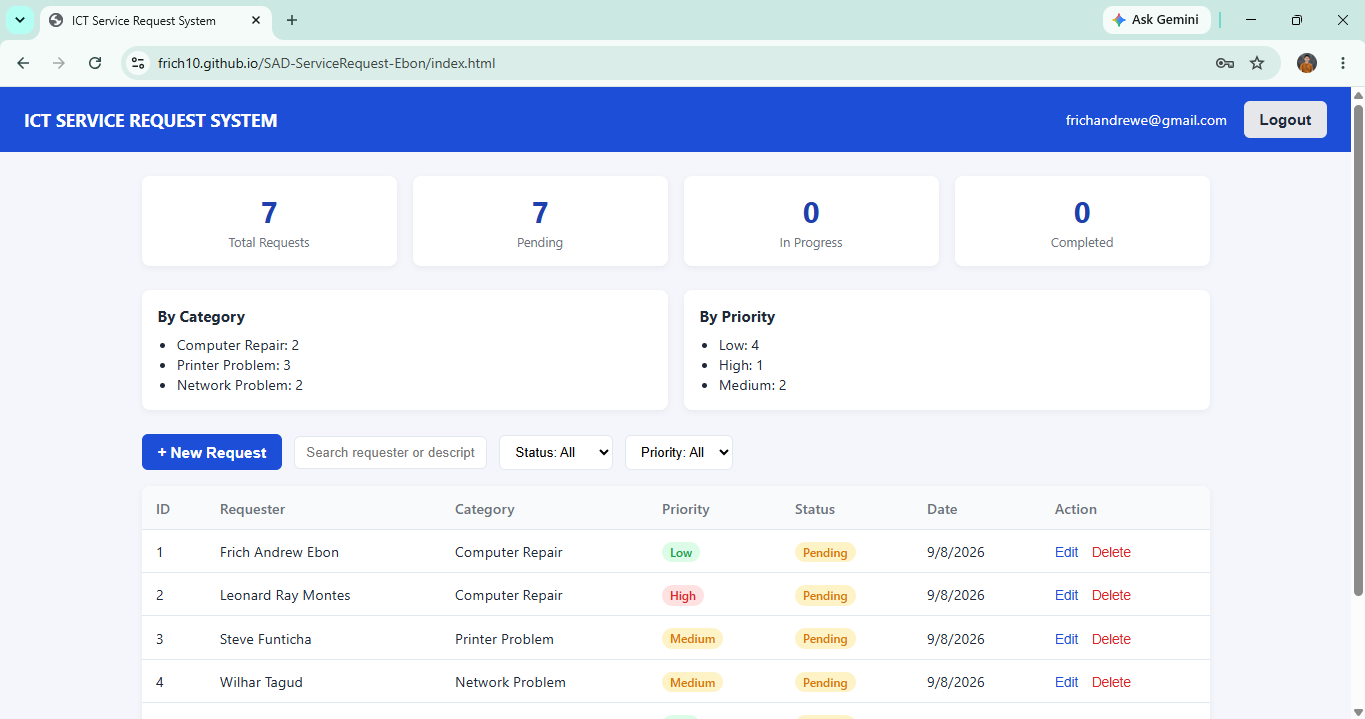
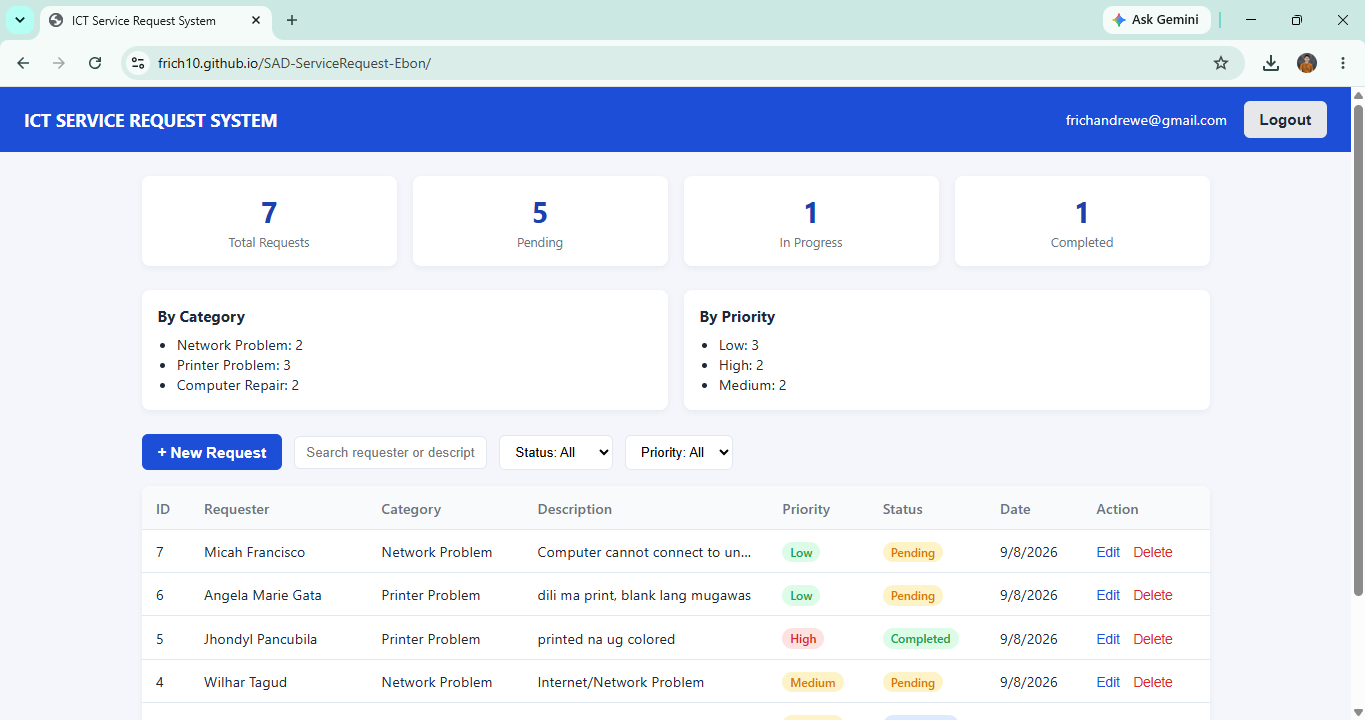
System and Complete Documentation

diff --git a/js/app.js b/js/app.js
@@ -1,15 +1,30 @@
-let currentUser = null;
-let allRequests = [];
+// js/app.js
+// -----------------------------------------------------------------------
+// Core application logic for index.html:
+//   - Dashboard summary counts
+//   - CRUD: Create, Read, Update, Delete service requests
+//   - Search (requester name / description)
+//   - Filter (status, priority)
+//   - Business rule validation (BR-01 to BR-06, BR-09)
+//   - Optional: Request Analytics (bonus)
+// -----------------------------------------------------------------------
 
+let currentUser = null;
+let allRequests = []; // cached copy of the last full fetch, used for client-side search/filter
+
+// ---------------------------------------------------------------------
+// INITIALIZATION
+// ---------------------------------------------------------------------
 (async function init() {
   const session = await requireSession();
-  if (!session) return; 
+  if (!session) return; // requireSession() already redirected to login.html
 
   currentUser = session.user;
   document.getElementById("user-email").textContent = currentUser.email;
 
   await loadRequests();
 
+  // Wire up static UI events
   document.getElementById("new-request-btn").addEventListener("click", openCreateModal);
   document.getElementById("request-form").addEventListener("submit", handleFormSubmit);
   document.getElementById("cancel-btn").addEventListener("click", closeModal);
@@ -20,11 +35,14 @@ let allRequests = [];
   document.getElementById("confirm-delete-no").addEventListener("click", closeDeleteModal);
 })();
 
+// ---------------------------------------------------------------------
+// READ: fetch all requests, render table + dashboard + analytics
+// ---------------------------------------------------------------------
 async function loadRequests() {
   const { data, error } = await supabaseClient
     .from("service_requests")
     .select("*")
-    .order("created_at", { ascending: false });
+    .order("id", { ascending: true });
 
   if (error) {
     alert("Error loading requests: " + error.message);
@@ -34,7 +52,7 @@ async function loadRequests() {
   allRequests = data || [];
   renderDashboard(allRequests);
   renderAnalytics(allRequests);
-  applyFilters(); 
+  applyFilters(); // renders the table using current search/filter state
 }
 
 function renderDashboard(requests) {
@@ -49,6 +67,7 @@ function renderDashboard(requests) {
   document.getElementById("stat-completed").textContent = completed;
 }
 
+// Bonus: Request Analytics by category and priority (values from DB, not hard-coded)
 function renderAnalytics(requests) {
   const byCategory = {};
   const byPriority = {};
@@ -76,6 +95,9 @@ function renderAnalytics(requests) {
   });
 }
 
+// ---------------------------------------------------------------------
+// SEARCH + FILTER (client-side, operates on the cached allRequests array)
+// ---------------------------------------------------------------------
 function applyFilters() {
   const searchTerm = document.getElementById("search-input").value.trim().toLowerCase();
   const statusFilter = document.getElementById("status-filter").value;
@@ -128,6 +150,7 @@ function renderTable(requests) {
     tbody.appendChild(tr);
   });
 
+  // Wire up row action buttons
   tbody.querySelectorAll(".edit-btn").forEach(btn =>
     btn.addEventListener("click", () => openEditModal(btn.dataset.id))
   );
@@ -147,6 +170,9 @@ function truncate(str, maxLen) {
   return str.length > maxLen ? str.slice(0, maxLen) + "…" : str;
 }
 
+// ---------------------------------------------------------------------
+// CREATE / UPDATE MODAL
+// ---------------------------------------------------------------------
 function openCreateModal() {
   document.getElementById("modal-title").textContent = "New Service Request";
   document.getElementById("request-id").value = "";
@@ -156,6 +182,7 @@ function openCreateModal() {
   document.getElementById("description").value = "";
   document.getElementById("priority").value = "Low";
 
+  // Status field only shown/editable when editing an existing request (BR-06)
   document.getElementById("status-field-group").style.display = "none";
 
   document.getElementById("form-error").textContent = "";
@@ -185,6 +212,7 @@ function closeModal() {
   document.getElementById("request-modal").classList.add("hidden");
 }
 
+// Validate against the business rules (BR-01 to BR-05)
 function validateForm(values) {
   if (!values.requester_name) return "Requester name cannot be empty. (BR-01)";
   if (!values.department) return "Department must be provided. (BR-02)";
@@ -215,7 +243,7 @@ async function handleFormSubmit(e) {
   }
 
   if (id) {
-
+    // ---- UPDATE ----
     values.status = document.getElementById("status").value;
     const { error } = await supabaseClient
       .from("service_requests")
@@ -227,7 +255,7 @@ async function handleFormSubmit(e) {
       return;
     }
   } else {
-
+    // ---- CREATE (BR-06: new requests are always Pending, BR-09: created_at is automatic) ----
     const { error } = await supabaseClient
       .from("service_requests")
       .insert([{
@@ -246,6 +274,9 @@ async function handleFormSubmit(e) {
   await loadRequests();
 }
 
+// ---------------------------------------------------------------------
+// DELETE (BR-08: confirmation required before deleting)
+// ---------------------------------------------------------------------
 let pendingDeleteId = null;
 
 function openDeleteModal(id) {
